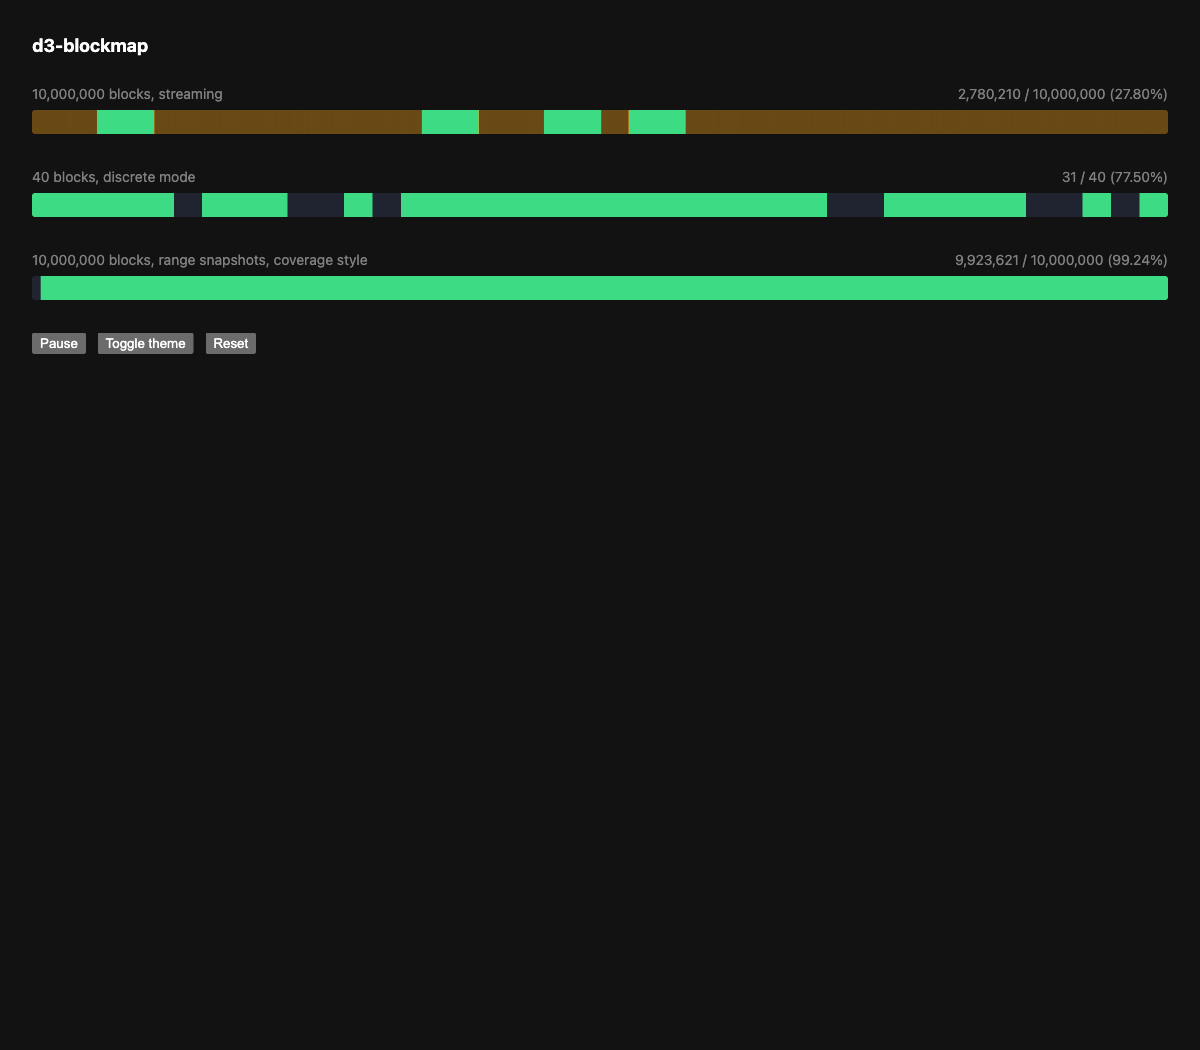
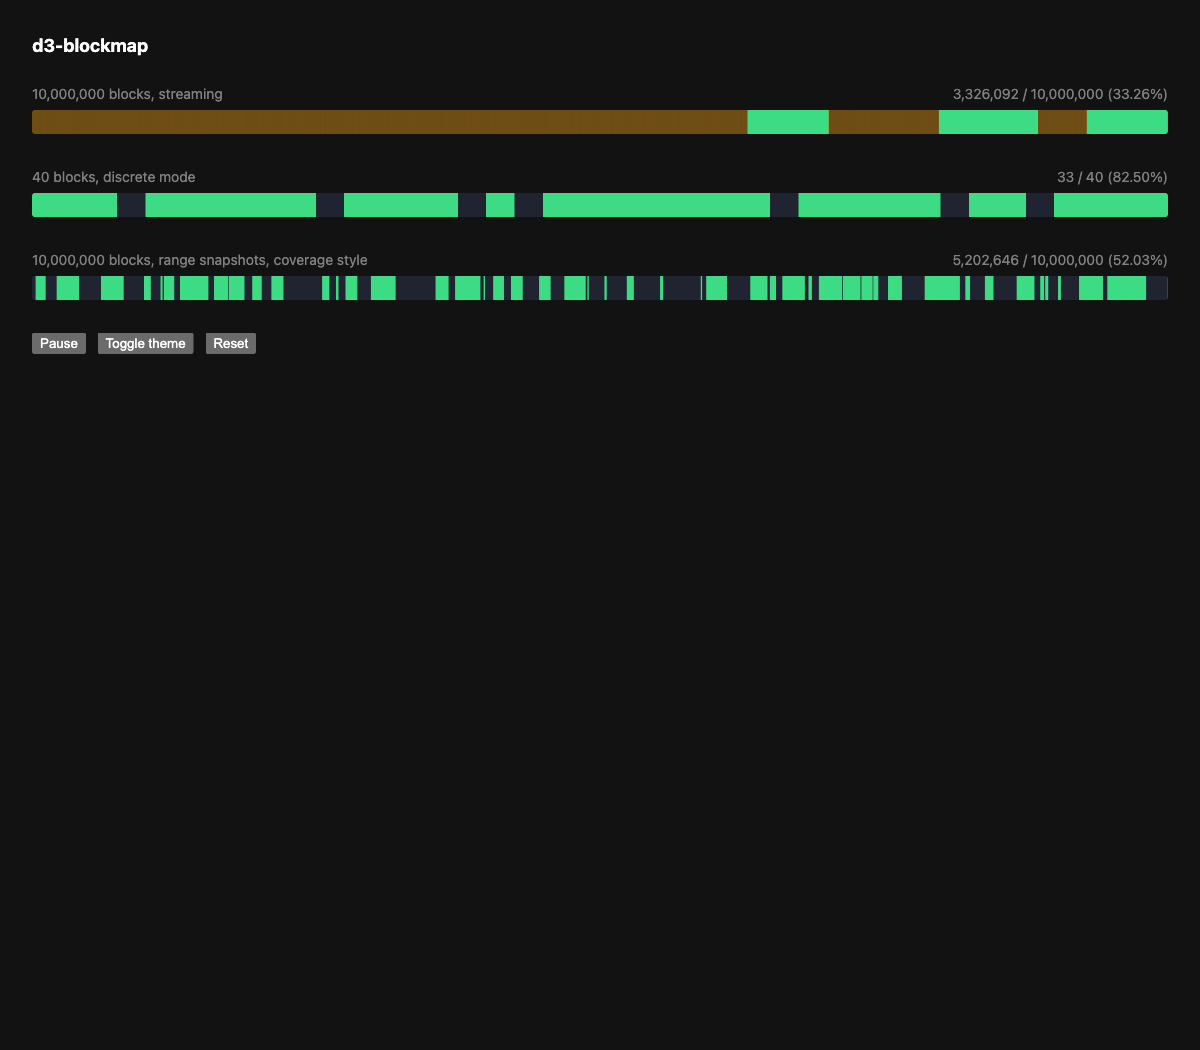
docs: slow range demo growth

diff --git a/demo/index.html b/demo/index.html
@@ -68,10 +68,10 @@ const rangeMap = createPieceMap(document.querySelector("#ranges"), {
   totalBlocks: BIG,
   partial: "coverage",
 });
-const RUN_SEED = 40;
+const RUN_SEED = 24;
 const RUN_MAX = 400;
-const RUN_START_LENGTH = 50_000;
-const RUN_GROWTH = 4_000;
+const RUN_START_LENGTH = 20_000;
+const RUN_GROWTH = 120;
 const NEW_RUN_EVERY = 20;
 const SNAPSHOT_EVERY = 5;
 const runs = [];
